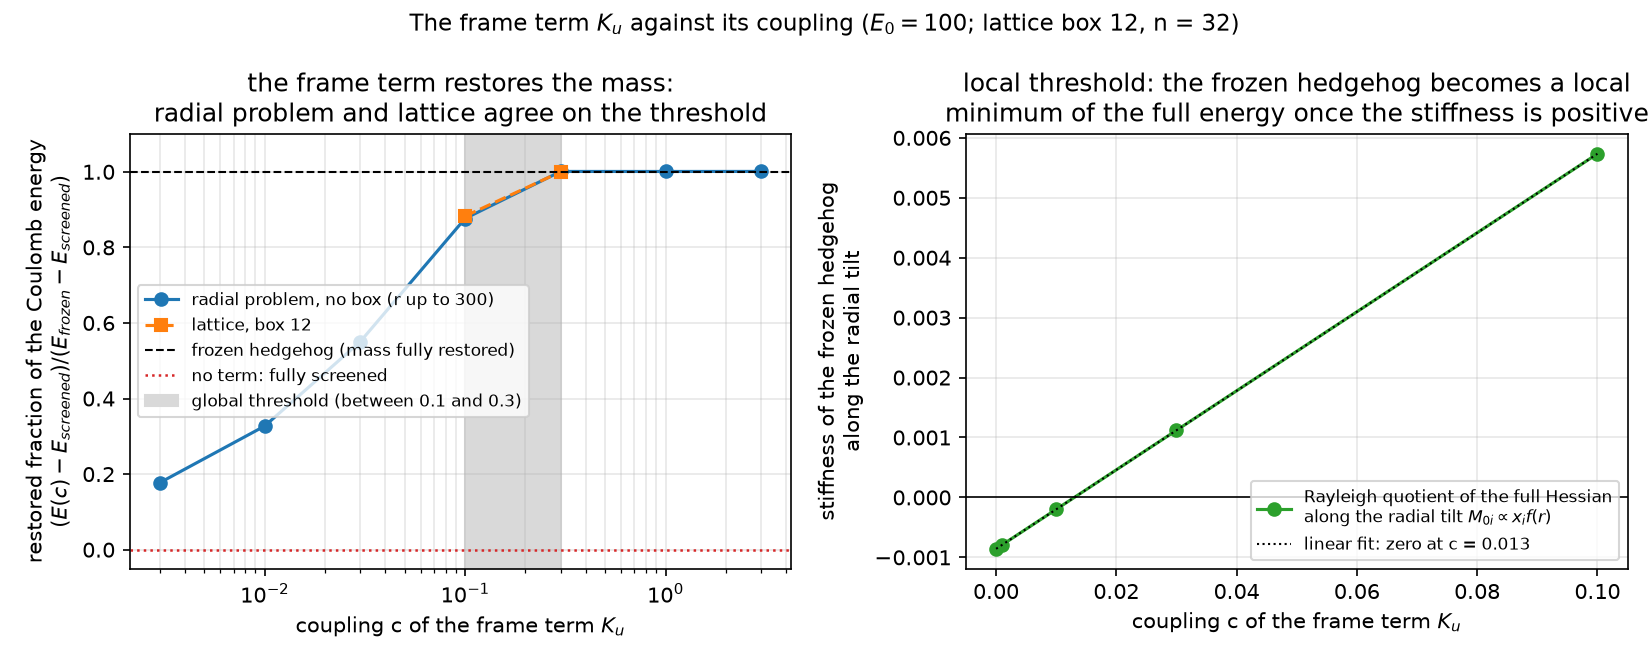
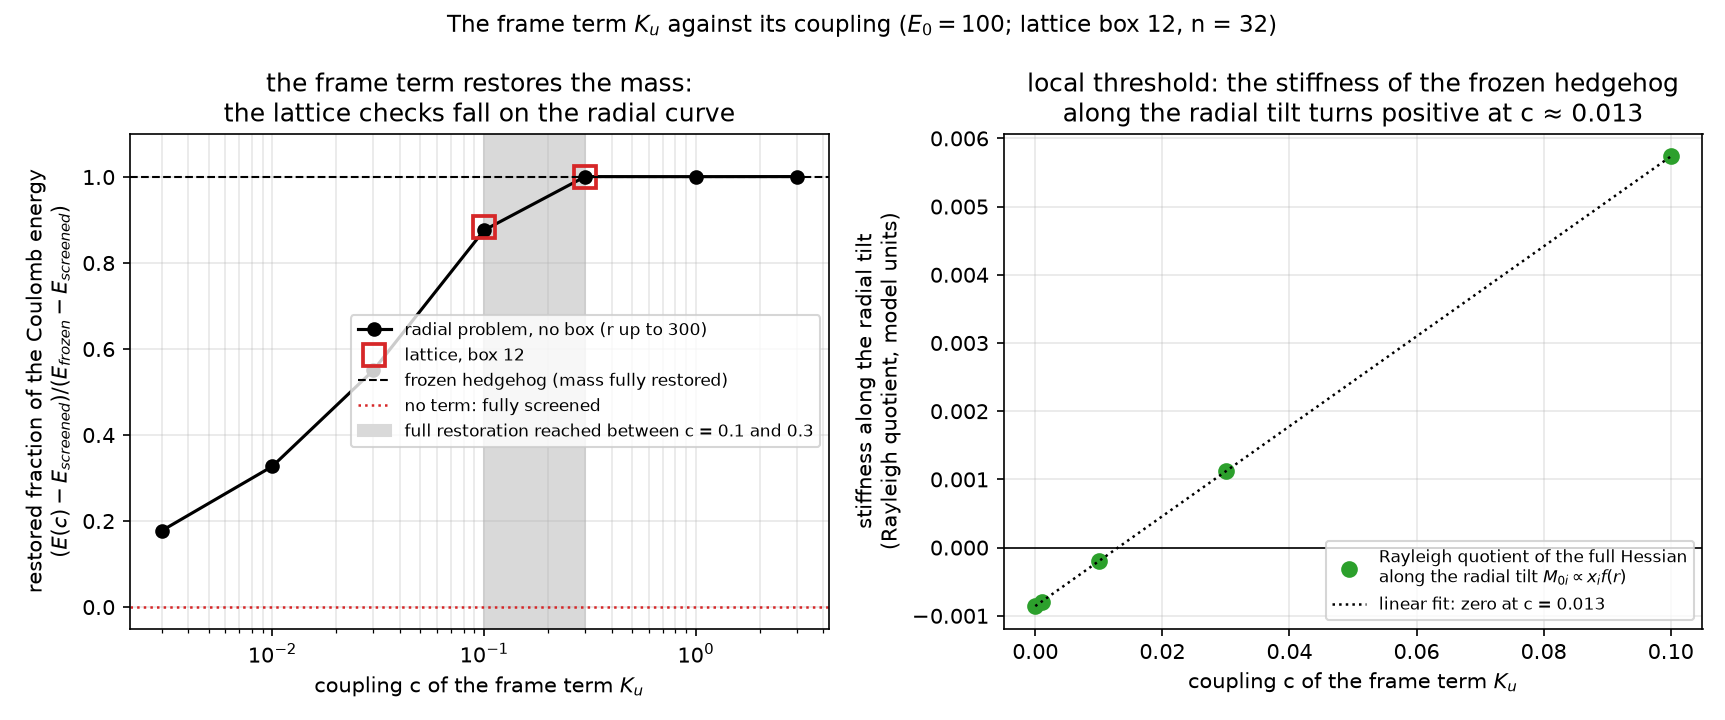
016: figure readability pass (titles, units, legends off the data, distinct E0 markers, Coulomb reference visible)
Claude-Session: https://claude.ai/code/session_01QP2nAtvThEMWhiKzux6iWF

diff --git a/reports/015-time-axis-screening/make_figures.py b/reports/015-time-axis-screening/make_figures.py
@@ -26,43 +26,40 @@ def load(name):
 def fig_screening():
     rad = {'frozen': load('radial_E0_100_nk240.json')['frozen'], 'screened': load('radial_E0_100_nk480.json')['screened']}
     fd = {row['file']: row for row in load('field_diagnostics.json')}
-    fig, ax = plt.subplots(1, 3, figsize=(14, 4.4))
+    fig, ax = plt.subplots(1, 3, figsize=(15, 4.8))
     # (a) 1D profiles
-    for tag, col, lab in (('frozen', 'k', 'time axis frozen'), ('screened', 'C3', 'time axis free')):
-        p = rad[tag]['profile']
-        r, e1, chi = np.array(p['r']), np.array(p['e1']), np.array(p['chi'])
-        ax[0].semilogx(r, e1, color=col, lw=1.6, label=f'{lab}: $e_1$')
-        ax[0].semilogx(r, chi / chi_star, color=col, lw=1.6, ls='--', label=f'{lab}: $\\chi/\\chi_*$')
-    ax[0].set(xlabel='r (model units)', ylabel='profile', xlim=(2e-2, 300), ylim=(-0.1, 1.25),
-              title='radial problem, no box: the charge eigenvalue $e_1$\nand the boost rapidity $\\chi$ of the time axis')
+    pf, ps = rad['frozen']['profile'], rad['screened']['profile']
+    ax[0].semilogx(pf['r'], pf['e1'], color='k', lw=1.6, label='$e_1$, time axis frozen')
+    ax[0].semilogx(ps['r'], ps['e1'], color='C3', lw=1.6, label='$e_1$, time axis free')
+    ax[0].semilogx(ps['r'], np.array(ps['chi']) / chi_star, color='C4', lw=1.6, ls='--', label='$\\chi/\\chi_*$, time axis free (frozen: 0)')
+    ax[0].set(xlabel='r (model units)', ylabel='$e_1$ and $\\chi/\\chi_*$ (dimensionless)', xlim=(2e-2, 300), ylim=(-0.1, 1.25),
+              title='radial problem, no box ($E_0 = 100$): $e_1$ and the boost\nrapidity $\\chi$ of the time axis ($\\chi_* \\approx \\Delta/E_0$, screening value)')
     ax[0].legend(fontsize=8, loc='center right')
     # (b) energy per unit radius
-    for tag, col, lab in (('frozen', 'k', 'time axis frozen'), ('screened', 'C3', 'time axis free')):
-        p = rad[tag]['profile']
-        r, dens = np.array(p['r']), np.array(p['density'])
-        m = (r > 0.02) & (dens > 0)
-        ax[1].loglog(r[m], dens[m], color=col, lw=1.6, label=f'{lab}: mass {rad[tag]["E"]:.1f}')
-    rr = np.logspace(0, 2.5, 50)
-    ax[1].loglog(rr, 16 * math.pi * Delta ** 4 / rr ** 2, 'k:', lw=1, label='Coulomb law $16\\pi\\Delta^4/r^2$')
-    ax[1].set(xlabel='r (model units)', ylabel='energy per unit radius $4\\pi r^2\\,\\mathcal{H}$', xlim=(2e-2, 300), ylim=(1e-8, 1e2),
-              title='energy per unit radius: with the time axis free\nthe Coulomb tail is gone')
+    r, dens = np.array(pf['r']), np.array(pf['density']); m = (r > 0.02) & (dens > 0)
+    ax[1].loglog(r[m], dens[m], color='k', lw=1.6, label=f'time axis frozen: mass {rad["frozen"]["E"]:.1f} (model units)')
+    r, dens = np.array(ps['r']), np.array(ps['density']); m = (r > 0.02) & (dens > 0)
+    ax[1].loglog(r[m], dens[m], color='C3', lw=0.9, alpha=0.85, label=f'time axis free: mass {rad["screened"]["E"]:.1f} (model units);\ntail below $10^{{-3}}$ is solver noise')
+    rr = np.logspace(0.3, 2.5, 50)
+    ax[1].loglog(rr, 16 * math.pi * Delta ** 4 / rr ** 2, '-', color='0.75', lw=5, zorder=0, label='Coulomb law $16\\pi\\Delta^4/r^2$ (the frozen tail lies on it)')
+    ax[1].set(xlabel='r (model units)', ylabel='energy per unit radius $4\\pi r^2\\,\\mathcal{H}$ (model units)', xlim=(2e-2, 300), ylim=(1e-8, 1e2),
+              title='energy per unit radius ($E_0 = 100$): with the time axis\nfree the Coulomb tail is gone')
     ax[1].legend(fontsize=8, loc='lower left')
     # (c) lattice tilt profiles
-    for name, col, lab in (('static_unfrozen_E0_10.pt', 'C0', '$E_0 = 10$'), ('static_unfrozen_E0_100.pt', 'C3', '$E_0 = 100$'),
-                           ('static_unfrozen_E0_1000.pt', 'C1', '$E_0 = 1000$'), ('static_tilt0.1.pt', 'C2', '$E_0 = 100$, with $K_u$, c = 0.1'),
-                           ('static_tilt1.pt', 'C4', '$E_0 = 100$, with $K_u$, c = 1')):
+    for name, col, ls, mk, lab in (('static_unfrozen_E0_10.pt', 'C0', '--', 's', '$E_0 = 10$'), ('static_unfrozen_E0_100.pt', 'C3', '-', 'o', '$E_0 = 100$'),
+                                   ('static_unfrozen_E0_1000.pt', 'C1', ':', '^', '$E_0 = 1000$'), ('static_tilt0.1.pt', 'C2', '-', 'o', '$E_0 = 100$, with $K_u$, c = 0.1'),
+                                   ('static_tilt1.pt', 'C4', '-', 'o', '$E_0 = 100$, with $K_u$, c = 1')):
         if name not in fd:
             continue
         prof = fd[name]['profiles']
-        ax[2].plot([p['r'] for p in prof], [p['m0i_radial'] for p in prof], 'o-', ms=3.5, color=col, lw=1.4, label=lab)
+        ax[2].plot([p['r'] for p in prof], [p['m0i_radial'] for p in prof], marker=mk, ls=ls, ms=4, color=col, lw=1.4, label=lab)
     ax[2].axhline(Delta, color='k', ls=':', lw=1, label='screening value $\\Delta$')
-    ax[2].set(xlabel='r (model units)', ylabel='radial tilt $M_{0i}\\hat x_i$ (shell mean)', ylim=(-0.05, 1.1),
-              title='lattice, box 12: the tilt of the time axis in the relaxed\nelectron, and its expulsion by the frame term $K_u$')
-    ax[2].legend(fontsize=8, loc='upper right')
+    ax[2].set(xlabel='r (model units)', ylabel='radial tilt $M_{0i}\\hat x_i$ (shell mean, model units)', ylim=(-0.05, 1.1),
+              title='lattice, box 12: the tilt of the time axis (curves for\n$E_0$ = 10 to 1000 overlap) and its expulsion by $K_u$')
+    ax[2].legend(fontsize=8, loc='lower left')
     for a in ax:
         a.grid(alpha=0.3, which='both')
-    fig.suptitle('The electron with the time sector free: the radial tilt of the time axis screens the Coulomb energy '
-                 f'($E_0 = 100$, $E_2 = E_3 = 0.01$)', fontsize=11)
+    fig.suptitle('The electron with the time sector free: the radial tilt of the time axis screens the Coulomb energy ($E_2 = E_3 = 0.01$)', fontsize=11)
     fig.tight_layout()
     fig.savefig(os.path.join(R, 'fig_screening.png'), dpi=150)
 
@@ -82,24 +79,24 @@ def fig_cure():
     cl = np.array([x[0] for x in lat]); El = np.array([x[1] for x in lat])
     ts = load('time_sector_check.json')
     stiff = sorted((row['tilt'], row['rayleigh']['radial M_0i ~ x_i']) for row in ts if row['E0'] == 100.0)
-    fig, ax = plt.subplots(1, 2, figsize=(11, 4.4))
-    ax[0].semilogx(c1, (E1d - Es) / (Ef - Es), 'o-', color='C0', label='radial problem, no box (r up to 300)')
-    ax[0].semilogx(cl, (El - Es_lat) / (Ef_lat - Es_lat), 's--', color='C1', label='lattice, box 12')
+    fig, ax = plt.subplots(1, 2, figsize=(11.5, 4.8))
+    ax[0].semilogx(c1, (E1d - Es) / (Ef - Es), 'o-', color='k', label='radial problem, no box (r up to 300)')
+    ax[0].semilogx(cl, (El - Es_lat) / (Ef_lat - Es_lat), 's', color='C3', ms=11, mfc='none', mew=1.8, label='lattice, box 12')
     ax[0].axhline(1, color='k', ls='--', lw=1, label='frozen hedgehog (mass fully restored)')
     ax[0].axhline(0, color='C3', ls=':', lw=1.2, label='no term: fully screened')
-    ax[0].axvspan(0.1, 0.3, color='0.85', label='global threshold (between 0.1 and 0.3)')
+    ax[0].axvspan(0.1, 0.3, color='0.85', label='full restoration reached between c = 0.1 and 0.3')
     ax[0].set(xlabel='coupling c of the frame term $K_u$', ylabel='restored fraction of the Coulomb energy\n$(E(c) - E_{screened})/(E_{frozen} - E_{screened})$',
-              ylim=(-0.05, 1.1), title='the frame term restores the mass:\nradial problem and lattice agree on the threshold')
-    ax[0].legend(fontsize=8, loc='center left')
+              ylim=(-0.05, 1.1), title='the frame term restores the mass:\nthe lattice checks fall on the radial curve')
+    ax[0].legend(fontsize=8, loc='center right')
     cs = np.array([s[0] for s in stiff]); ks = np.array([s[1] for s in stiff])
-    ax[1].plot(cs, ks, 'o-', color='C2', label='Rayleigh quotient of the full Hessian\nalong the radial tilt $M_{0i}\\propto x_i f(r)$')
+    ax[1].plot(cs, ks, 'o', color='C2', ms=7, label='Rayleigh quotient of the full Hessian\nalong the radial tilt $M_{0i}\\propto x_i f(r)$')
     if len(cs) > 1:
         slope, icpt = np.polyfit(cs, ks, 1)
         cc = np.linspace(0, cs.max(), 50)
-        ax[1].plot(cc, icpt + slope * cc, 'k:', lw=1, label=f'linear fit: zero at c = {-icpt / slope:.3f}')
+        ax[1].plot(cc, icpt + slope * cc, 'k:', lw=1.2, label=f'linear fit: zero at c = {-icpt / slope:.3f}')
     ax[1].axhline(0, color='k', lw=0.8)
-    ax[1].set(xlabel='coupling c of the frame term $K_u$', ylabel='stiffness of the frozen hedgehog\nalong the radial tilt',
-              title='local threshold: the frozen hedgehog becomes a local\nminimum of the full energy once the stiffness is positive')
+    ax[1].set(xlabel='coupling c of the frame term $K_u$', ylabel='stiffness along the radial tilt\n(Rayleigh quotient, model units)',
+              title='local threshold: the stiffness of the frozen hedgehog\nalong the radial tilt turns positive at c ≈ 0.013')
     ax[1].legend(fontsize=8, loc='lower right')
     for a in ax:
         a.grid(alpha=0.3, which='both')
